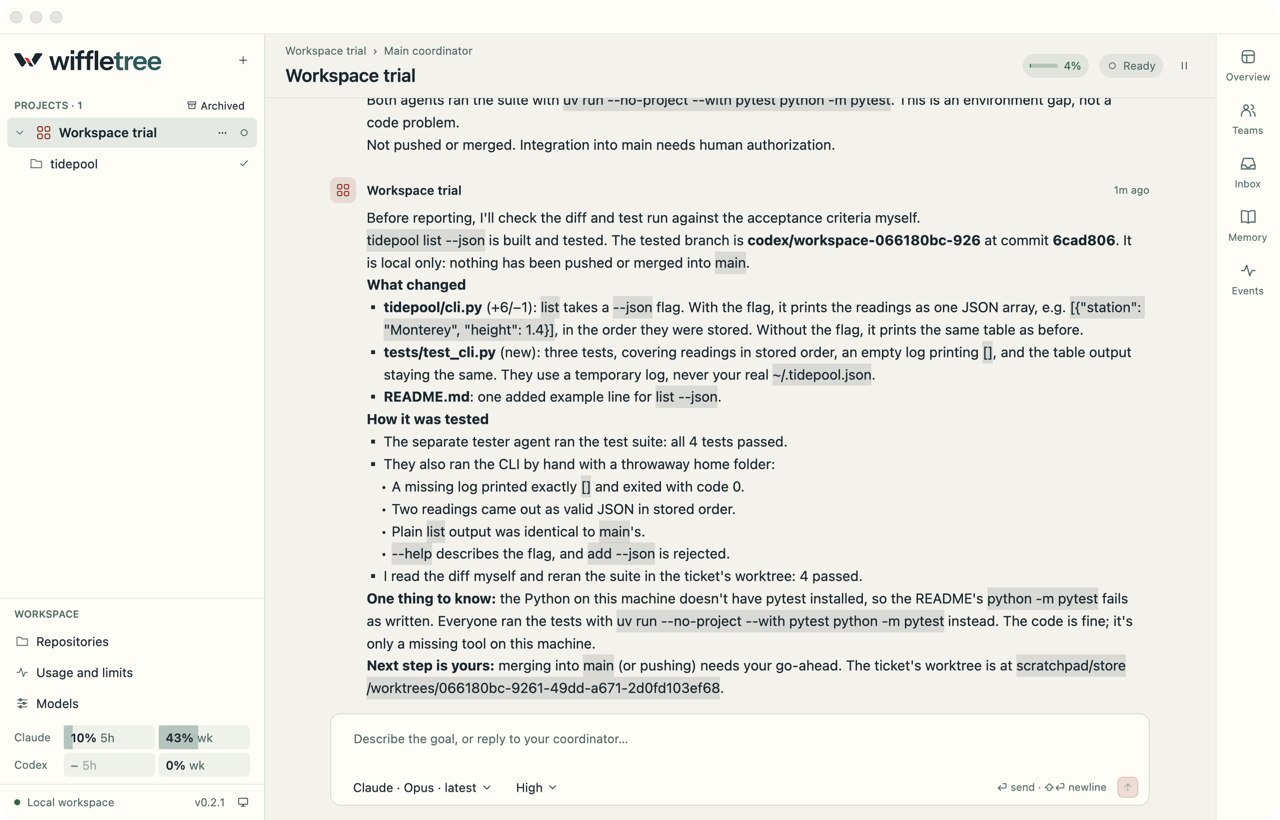
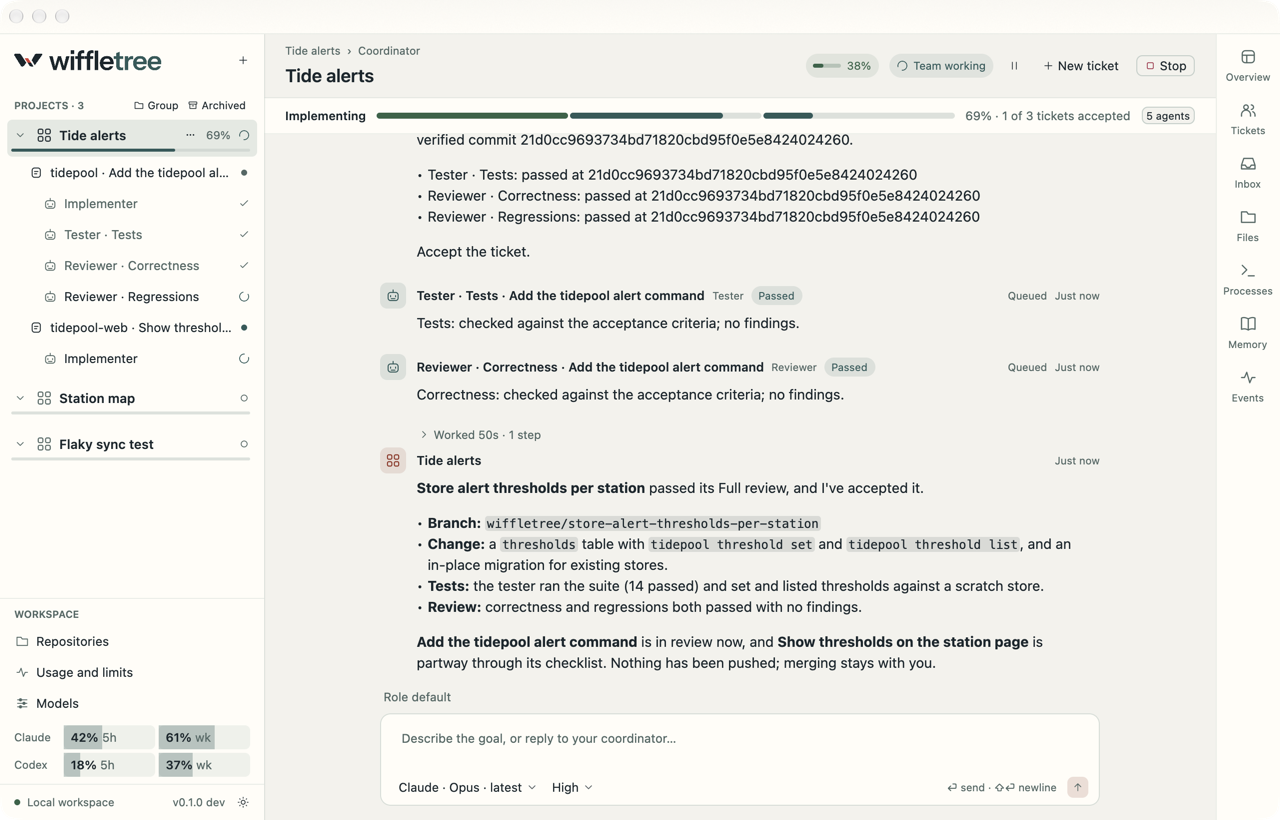
Refresh the README and its screenshots for current features
The README now covers the welcome screen and suggested model setup, exact
models from an allowlist with a coordinator-chosen model and reason per
assignment, review levels, work progress and the Crew panel, the Context
card and Compact, the Processes panel, and usage and limits from provider
telemetry. The outdated "default model for each role" wording is gone.

All five screenshots are new captures in Tidal Light at 1280x820 from a
throwaway store driven by stand-in providers: coordinator, tickets (the
Crew panel) and models replace the old ones, and usage and context are
added. Nothing in them comes from a real account or repository.

diff --git a/README.md b/README.md
@@ -13,16 +13,24 @@
   <a href="LICENSE"><img alt="MIT License" src="https://img.shields.io/badge/license-MIT-86C1BC"></a>
 </p>
 
-![The coordinator reporting a tested branch for the tidepool repository](docs/images/coordinator.png)
+![The Tide alerts coordinator reporting an accepted ticket, under a progress strip that reads 1 of 3 tickets accepted](docs/images/coordinator.png)
 
 <table>
   <tr>
-    <td width="50%"><img src="docs/images/tickets.png" alt="A coordinator's tickets, with the branch and agents for each"></td>
-    <td width="50%"><img src="docs/images/models.png" alt="Default Claude and Codex models for each agent role"></td>
+    <td width="50%"><img src="docs/images/tickets.png" alt="The Crew panel beside the coordinator's chat, listing three tickets by stage with their agents, models and progress"></td>
+    <td width="50%"><img src="docs/images/models.png" alt="The Models page with the Claude and Codex models allowed on this machine, the providers for each role and the Full and Light review levels"></td>
   </tr>
   <tr>
-    <td align="center"><sub>A coordinator accepts a ticket after independent verification.</sub></td>
-    <td align="center"><sub>Any role can run on Claude or Codex.</sub></td>
+    <td align="center"><sub>Every ticket gets its own branch, implementer and independent reviewers.</sub></td>
+    <td align="center"><sub>You allow exact models; the coordinator picks one for each assignment.</sub></td>
+  </tr>
+  <tr>
+    <td width="50%"><img src="docs/images/usage.png" alt="The Usage page with Claude and Codex 5-hour and weekly account limits above a week of daily Claude and Codex tokens"></td>
+    <td width="50%"><img src="docs/images/context.png" alt="An implementer's Context card showing how full its context window is, by category, with a Compact button"></td>
+  </tr>
+  <tr>
+    <td align="center"><sub>Account limits from the providers, above the tokens your agents used each day.</sub></td>
+    <td align="center"><sub>See what fills an agent's context, and compact it when you choose.</sub></td>
   </tr>
 </table>
 
@@ -43,7 +51,7 @@ claude auth login
 codex login
 ```
 
-Then press **⌘N**, add a repository, and tell the coordinator what you want built. [Your first project](docs/DEVELOPMENT.md#first-project) walks through it step by step.
+The first time you open Wiffletree, a welcome screen lists the CLIs it found signed in and offers a model setup suggested from them. Review it on the Models page and press **Save**; no agent starts until a setup is saved. Then press **⌘N**, add a repository, and tell the coordinator what you want built. [Your first project](docs/DEVELOPMENT.md#first-project) walks through it step by step.
 
 **Updates are automatic.** The app checks hourly, downloads new versions in the background and shows a card in the sidebar with what changed. Click **Restart to update**, or just quit. To check right away, click the version number at the bottom of the sidebar.
 
@@ -70,17 +78,27 @@ Wiffletree has opinions about how agent work should be organized.
 
 **Tickets are small, isolated and tested by someone else.** Every ticket gets its own Git worktree and branch. An implementer builds it, and a separate tester checks it against the acceptance criteria. "The turn ended" never counts as "it works."
 
+**You decide how thorough a review is.** A review level is a named set of testers and reviewers, with a line telling the coordinator when to use it. A full review can be a ticket's only review. A re-check, such as the suggested "Light", runs only on a ticket whose last review passed, for example after a rebase or a small fix. You also cap the rounds in one review and the full reviews per ticket.
+
 **Blocked is not the same as needs-you.** Workers report blockers to the coordinator, which resolves most of them. Only the coordinator escalates to you, and it gathers its questions in one Inbox so you answer them once.
 
-**Any model can play any role.** Claude can coordinate Codex implementers, and Codex can coordinate Claude. You set a default model for each role, and you can override any single agent.
+**Any model can play any role, and the coordinator picks it.** Claude can coordinate Codex implementers, and Codex can coordinate Claude. On the Models page you list the exact models and efforts allowed on this machine, choose which providers each role may use, and write a short guide on picking a model by the size and risk of the work. For every assignment and every reviewer, the coordinator picks one allowed model and effort and gives a one-line reason, which is shown with that agent's conversation, just above the message box. Wiffletree refuses a choice outside the list and never falls back to another model. You can still change the model of any single agent yourself.
 
 **Messages are durable.** Agents talk through the app's message queue, not by typing into each other's terminals. Every message is saved before it is acknowledged, and an idle recipient wakes the moment one arrives. After a restart, each agent resumes its exact provider session, and the app never silently retries work that might have had side effects.
 
 **Software does the routine work; models do the thinking.** Git state, status, polling and usage tracking are ordinary deterministic code. Models are woken only for decisions that need reasoning, so coordinators sleep between events instead of polling.
 
+**You can see how far along the work is.** The app derives the progress bars from each agent's checklist, each ticket's stage and its review results. The coordinator's strip shows the project's phase, one segment per ticket and how many tickets are accepted. Its Crew panel lists every ticket with its agents, their models and their progress.
+
+**You can see what fills an agent's context.** Each agent's Overview has a Context card that shows how full its context window is and with what, measured after every turn without a model call. Claude reports its own categories; for Codex they are estimates. **Compact…** on the same card replaces a Claude or Codex agent's conversation with a summary when you choose, and for Claude you can say what to keep.
+
+**You can stop what agents leave running.** A dev server or watcher an agent starts keeps running between its turns. The Processes panel lists what each agent has running, or every agent's from the coordinator, with how long it has run and its CPU, and stops one or all of them. Wiffletree also stops them when an agent is stopped or archived and when the app quits.
+
+**Usage and limits stay in view.** The sidebar shows each provider's 5-hour and weekly limits, and the Usage page puts both accounts side by side. Those percentages come only from the providers' own telemetry: the Codex app server, and the rate-limit events Claude sends during live turns, so a Claude window reads **Unavailable** when Claude reports no percentage. Wiffletree never scrapes account pages or spends tokens to check. Below the limits, it charts the tokens its agents used by day and ranks them by coordinator, with project and provider filters.
+
 **Humans own integration.** Agents deliver tested branches. Once a ticket's review has ended, Wiffletree pushes its branch and opens its pull request itself: without asking for the GitHub owners you allow on the Repositories page, and only after you approve each step everywhere else. It never approves, merges, closes or comments on a pull request, so merging stays yours.
 
-**The PR keeper keeps pull requests current, if you ask it to.** It is off until you tick "Rebase when the base branch moves" on the Repositories page, and it acts only in repositories that open pull requests without asking. Once a pull request's base has been quiet for a couple of minutes, Wiffletree rebases the branch itself, with no model and no review, and replaces the branch on GitHub with a lease, only when the rebased change is the same as the reviewed one. Every commit id on the pull request changes. A rebase that conflicts or changes the patch is left to the coordinator. With "Sort new comments" ticked and a Claude model chosen for the PR keeper in Models, it also sorts new comments from people who can push to the repository into needs a change, a question or no action, with a model run that has every tool turned off, and sends the coordinator links to those that need something, never their text. It never replies, resolves or reacts on GitHub. It works only while Wiffletree is running.
+**The PR keeper keeps pull requests current, if you ask it to.** It is off until you tick "Rebase when the base branch moves" on the Repositories page, and it acts only in repositories that open pull requests without asking. Once a pull request's base has been quiet for a couple of minutes, Wiffletree rebases the branch itself, with no model and no review, and replaces the branch on GitHub with a lease, only when the rebased change is the same as the reviewed one. Every commit id on the pull request changes. A rebase that conflicts or changes the patch is left to the coordinator. With "Sort new comments" ticked and a Claude model chosen for the PR keeper in Models, it also sorts new comments from people who can push to the repository into needs a change, a question or no action, with a model run that has every tool and hook turned off, and sends the coordinator links to those that need something, never their text. It never replies, resolves or reacts on GitHub. It works only while Wiffletree is running.
 
 **It should feel instant.** Wiffletree is a native Rust app built on [GPUI](https://github.com/zed-industries/zed/tree/main/crates/gpui), not a web view, and it stays light when idle.
 
@@ -104,6 +122,8 @@ cargo build --locked --release -p workspace-host -p workspace-desktop
 ./target/release/workspace-desktop \
   --data-dir /tmp/wiffletree-preview --demo-repository "$PWD"
 ```
+
+On a fresh store, save the suggested setup on the Models page and relaunch to get the demo project.
 
 [Development notes](docs/DEVELOPMENT.md) cover model configuration, headless commands, validation and releases. [Measured host timings](docs/performance/host-baseline.md) are kept separate from the desktop and provider performance targets, which are not yet verified.
 
